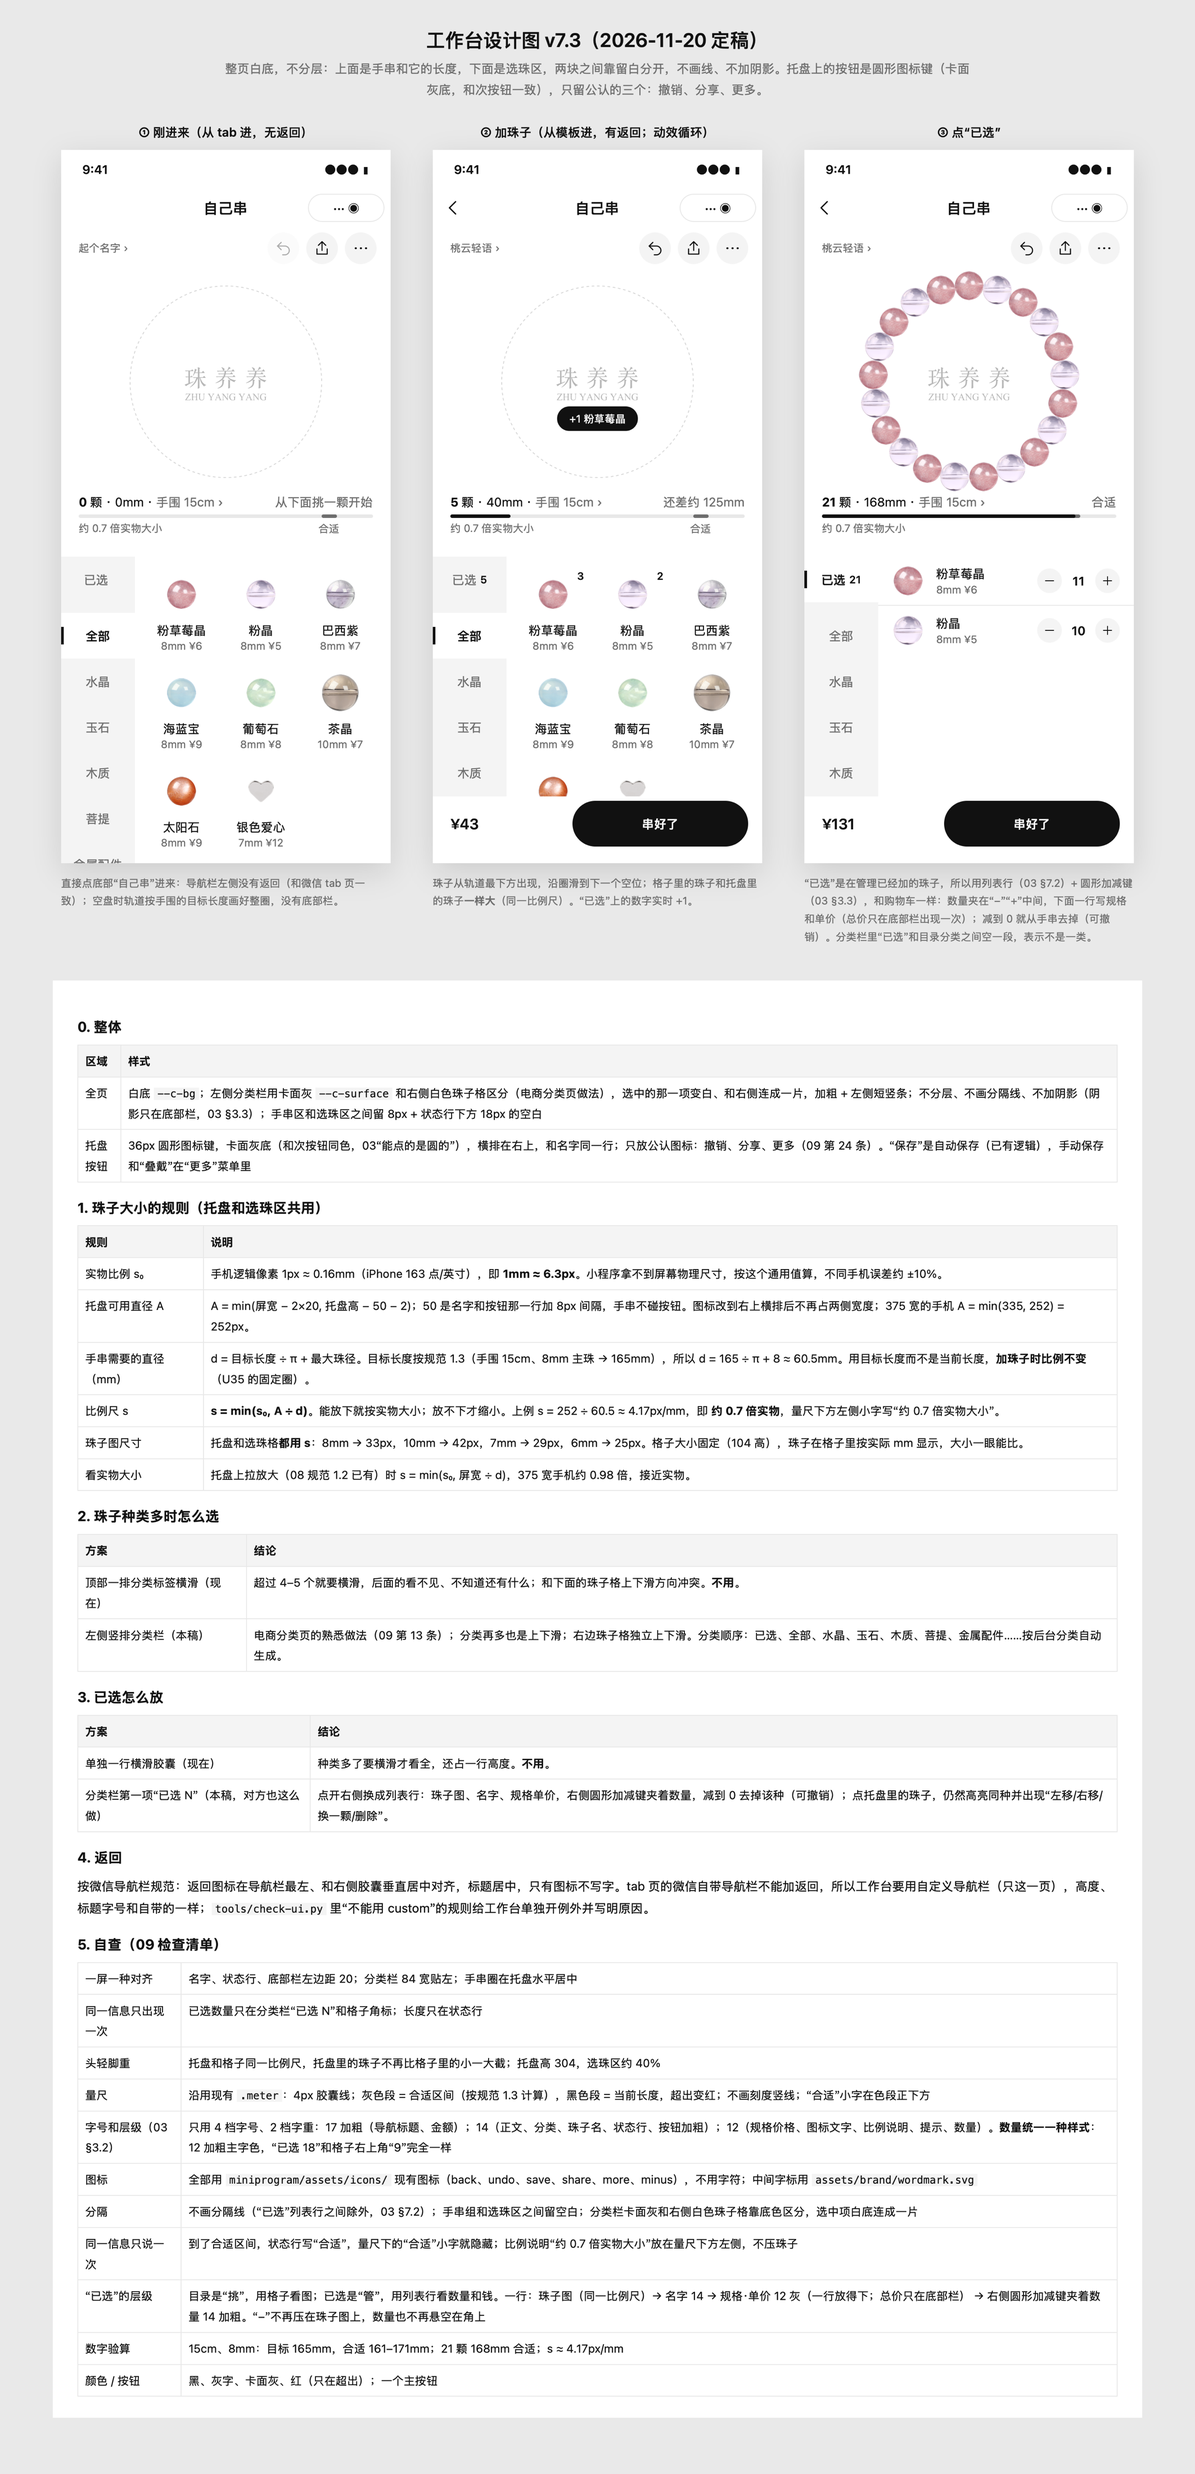
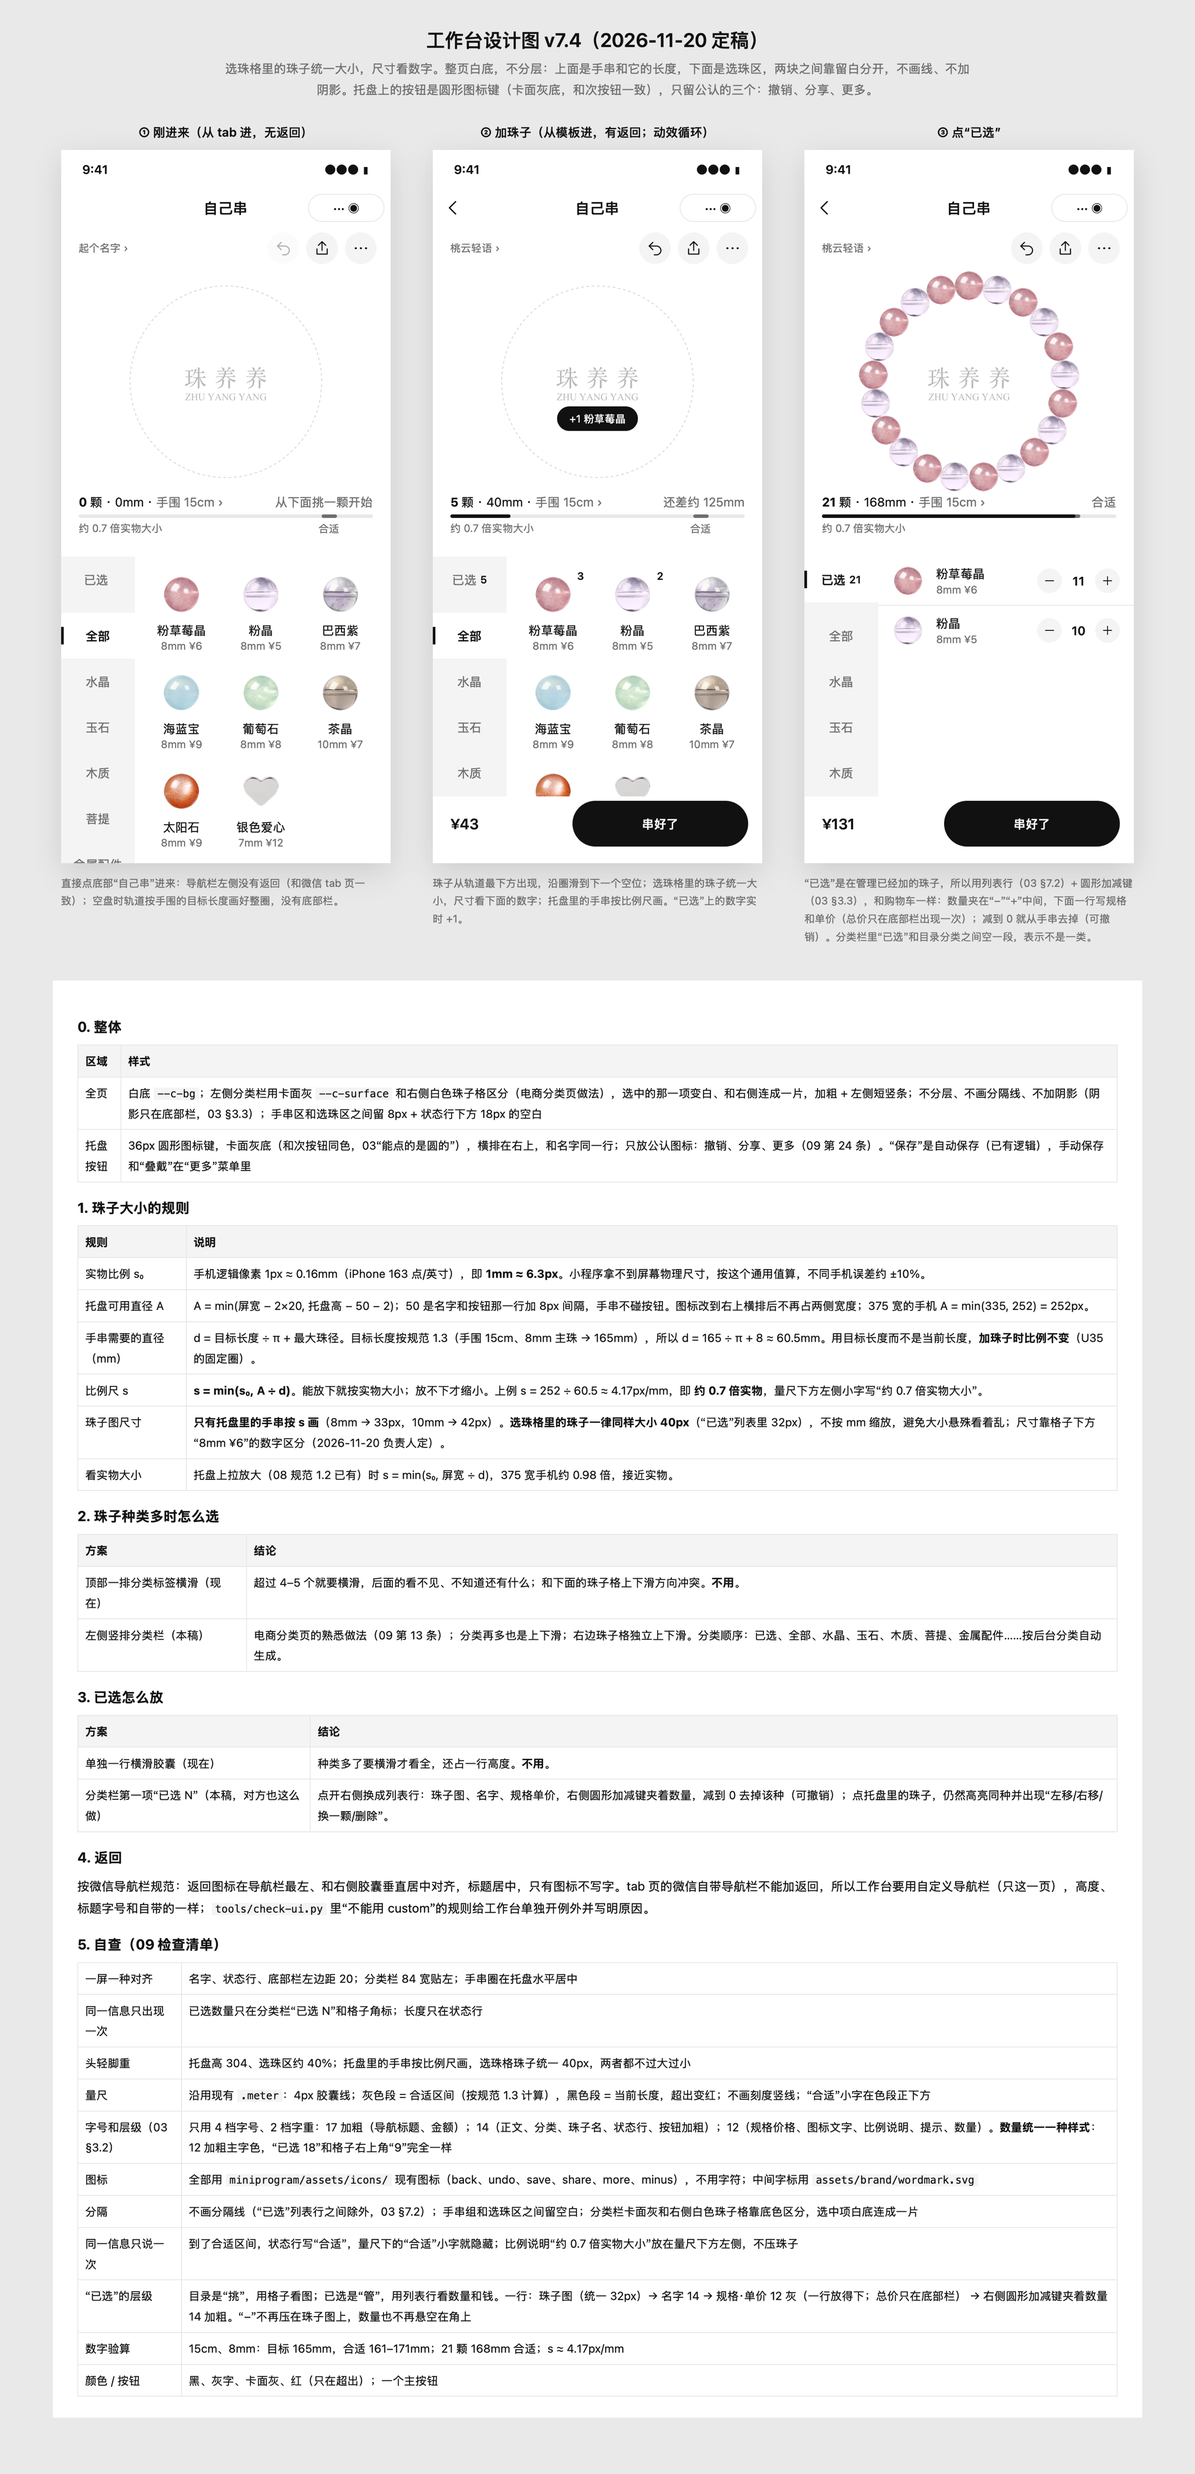
工作台设计图 v7.4：选珠格珠子统一大小、尺寸看数字（负责人定）；U40 卡同步

diff --git a/docs/design/mockups-workbench-v7.html b/docs/design/mockups-workbench-v7.html
@@ -3,7 +3,7 @@
 <head>
 <meta charset="utf-8">
 <meta name="viewport" content="width=device-width,initial-scale=1">
-<title>工作台设计图 v7.3</title>
+<title>工作台设计图 v7.4</title>
 <style>
 /* 1px = 2rpx。颜色、字号、间距取自 docs/design/tokens.wxss */
 :root{--bg:#fff;--surface:#f4f4f4;--line:#e8e8e8;--text:#111;--text2:#6e6e6e;--danger:#c2352b;--fs-title:17px;--fs-body:14px;--fs-caption:12px;--sp-base:20px;--h-btn:52px}
@@ -77,8 +77,8 @@ code{font-size:12px;background:var(--surface);padding:0 4px}
 </style>
 </head>
 <body>
-<h1>工作台设计图 v7.3（2026-11-20 定稿）</h1>
-<p class="sub">整页白底，不分层：上面是手串和它的长度，下面是选珠区，两块之间靠留白分开，不画线、不加阴影。托盘上的按钮是圆形图标键（卡面灰底，和次按钮一致），只留公认的三个：撤销、分享、更多。</p>
+<h1>工作台设计图 v7.4（2026-11-20 定稿）</h1>
+<p class="sub">选珠格里的珠子统一大小，尺寸看数字。整页白底，不分层：上面是手串和它的长度，下面是选珠区，两块之间靠留白分开，不画线、不加阴影。托盘上的按钮是圆形图标键（卡面灰底，和次按钮一致），只留公认的三个：撤销、分享、更多。</p>
 
 <div class="row">
   <div class="col"><div class="cap">① 刚进来（从 tab 进，无返回）</div>
@@ -87,7 +87,7 @@ code{font-size:12px;background:var(--surface);padding:0 4px}
   </div>
   <div class="col"><div class="cap">② 加珠子（从模板进，有返回；动效循环）</div>
     <div class="phone" id="p2"></div>
-    <div class="capd">珠子从轨道最下方出现，沿圈滑到下一个空位；格子里的珠子和托盘里的珠子<b>一样大</b>（同一比例尺）。“已选”上的数字实时 +1。</div>
+    <div class="capd">珠子从轨道最下方出现，沿圈滑到下一个空位；选珠格里的珠子统一大小，尺寸看下面的数字；托盘里的手串按比例尺画。“已选”上的数字实时 +1。</div>
   </div>
   <div class="col"><div class="cap">③ 点“已选”</div>
     <div class="phone" id="p3"></div>
@@ -102,14 +102,14 @@ code{font-size:12px;background:var(--surface);padding:0 4px}
     <tr><td>全页</td><td>白底 <code>--c-bg</code>；左侧分类栏用卡面灰 <code>--c-surface</code> 和右侧白色珠子格区分（电商分类页做法），选中的那一项变白、和右侧连成一片，加粗 + 左侧短竖条；不分层、不画分隔线、不加阴影（阴影只在底部栏，03 §3.3）；手串区和选珠区之间留 8px + 状态行下方 18px 的空白</td></tr>
     <tr><td>托盘按钮</td><td>36px 圆形图标键，卡面灰底（和次按钮同色，03“能点的是圆的”），横排在右上，和名字同一行；只放公认图标：撤销、分享、更多（09 第 24 条）。“保存”是自动保存（已有逻辑），手动保存和“叠戴”在“更多”菜单里</td></tr>
   </table>
-  <h2>1. 珠子大小的规则（托盘和选珠区共用）</h2>
+  <h2>1. 珠子大小的规则</h2>
   <table>
     <tr><th>规则</th><th>说明</th></tr>
     <tr><td>实物比例 s₀</td><td>手机逻辑像素 1px ≈ 0.16mm（iPhone 163 点/英寸），即 <b>1mm ≈ 6.3px</b>。小程序拿不到屏幕物理尺寸，按这个通用值算，不同手机误差约 ±10%。</td></tr>
     <tr><td>托盘可用直径 A</td><td>A = min(屏宽 − 2×20, 托盘高 − 50 − 2)；50 是名字和按钮那一行加 8px 间隔，手串不碰按钮。图标改到右上横排后不再占两侧宽度；375 宽的手机 A = min(335, 252) = 252px。</td></tr>
     <tr><td>手串需要的直径（mm）</td><td>d = 目标长度 ÷ π + 最大珠径。目标长度按规范 1.3（手围 15cm、8mm 主珠 → 165mm），所以 d = 165 ÷ π + 8 ≈ 60.5mm。用目标长度而不是当前长度，<b>加珠子时比例不变</b>（U35 的固定圈）。</td></tr>
     <tr><td>比例尺 s</td><td><b>s = min(s₀, A ÷ d)</b>。能放下就按实物大小；放不下才缩小。上例 s = 252 ÷ 60.5 ≈ 4.17px/mm，即 <b>约 0.7 倍实物</b>，量尺下方左侧小字写“约 0.7 倍实物大小”。</td></tr>
-    <tr><td>珠子图尺寸</td><td>托盘和选珠格<b>都用 s</b>：8mm → 33px，10mm → 42px，7mm → 29px，6mm → 25px。格子大小固定（104 高），珠子在格子里按实际 mm 显示，大小一眼能比。</td></tr>
+    <tr><td>珠子图尺寸</td><td><b>只有托盘里的手串按 s 画</b>（8mm → 33px，10mm → 42px）。<b>选珠格里的珠子一律同样大小 40px</b>（“已选”列表里 32px），不按 mm 缩放，避免大小悬殊看着乱；尺寸靠格子下方“8mm ¥6”的数字区分（2026-11-20 负责人定）。</td></tr>
     <tr><td>看实物大小</td><td>托盘上拉放大（08 规范 1.2 已有）时 s = min(s₀, 屏宽 ÷ d)，375 宽手机约 0.98 倍，接近实物。</td></tr>
   </table>
   <h2>2. 珠子种类多时怎么选</h2>
@@ -130,13 +130,13 @@ code{font-size:12px;background:var(--surface);padding:0 4px}
   <table>
     <tr><td>一屏一种对齐</td><td>名字、状态行、底部栏左边距 20；分类栏 84 宽贴左；手串圈在托盘水平居中</td></tr>
     <tr><td>同一信息只出现一次</td><td>已选数量只在分类栏“已选 N”和格子角标；长度只在状态行</td></tr>
-    <tr><td>头轻脚重</td><td>托盘和格子同一比例尺，托盘里的珠子不再比格子里的小一大截；托盘高 304，选珠区约 40%</td></tr>
+    <tr><td>头轻脚重</td><td>托盘高 304、选珠区约 40%；托盘里的手串按比例尺画，选珠格珠子统一 40px，两者都不过大过小</td</tr>
     <tr><td>量尺</td><td>沿用现有 <code>.meter</code>：4px 胶囊线；灰色段 = 合适区间（按规范 1.3 计算），黑色段 = 当前长度，超出变红；不画刻度竖线；“合适”小字在色段正下方</td></tr>
     <tr><td>字号和层级（03 §3.2）</td><td>只用 4 档字号、2 档字重：17 加粗（导航标题、金额）；14（正文、分类、珠子名、状态行、按钮加粗）；12（规格价格、图标文字、比例说明、提示、数量）。<b>数量统一一种样式</b>：12 加粗主字色，“已选 18”和格子右上角“9”完全一样</td></tr>
     <tr><td>图标</td><td>全部用 <code>miniprogram/assets/icons/</code> 现有图标（back、undo、save、share、more、minus），不用字符；中间字标用 <code>assets/brand/wordmark.svg</code></td></tr>
     <tr><td>分隔</td><td>不画分隔线（“已选”列表行之间除外，03 §7.2）；手串组和选珠区之间留空白；分类栏卡面灰和右侧白色珠子格靠底色区分，选中项白底连成一片</td></tr>
     <tr><td>同一信息只说一次</td><td>到了合适区间，状态行写“合适”，量尺下的“合适”小字就隐藏；比例说明“约 0.7 倍实物大小”放在量尺下方左侧，不压珠子</td></tr>
-    <tr><td>“已选”的层级</td><td>目录是“挑”，用格子看图；已选是“管”，用列表行看数量和钱。一行：珠子图（同一比例尺）→ 名字 14 → 规格·单价 12 灰（一行放得下；总价只在底部栏） → 右侧圆形加减键夹着数量 14 加粗。“−”不再压在珠子图上，数量也不再悬空在角上</td></tr>
+    <tr><td>“已选”的层级</td><td>目录是“挑”，用格子看图；已选是“管”，用列表行看数量和钱。一行：珠子图（统一 32px）→ 名字 14 → 规格·单价 12 灰（一行放得下；总价只在底部栏） → 右侧圆形加减键夹着数量 14 加粗。“−”不再压在珠子图上，数量也不再悬空在角上</td></tr>
     <tr><td>数字验算</td><td>15cm、8mm：目标 165mm，合适 161–171mm；21 颗 168mm 合适；s ≈ 4.17px/mm</td></tr>
     <tr><td>颜色 / 按钮</td><td>黑、灰字、卡面灰、红（只在超出）；一个主按钮</td></tr>
   </table>
@@ -151,9 +151,9 @@ function phone(o){
   const cats=['全部','水晶','玉石','木质','菩提','金属配件','隔珠'];
   const rail=`<div class="rail"><div class="${o.rail==='sel'?'on':''}">已选<span class="cnt" id="${o.id}sel">${o.sel||''}</span></div><div class="gap"></div>${cats.map((c,i)=>`<div class="${o.rail===i?'on':''}">${c}</div>`).join('')}</div>`;
   const list=o.rail==='sel'?o.selItems:NAMES.map((b,i)=>i);
-  if(o.rail==='sel'){const rows=o.selItems.map(i=>{const b=NAMES[i],px=Math.round(b[1]*S);return `<div class="lrow"><div class="im"><img src="${IMG[i+1]}" style="width:${px}px;height:${px}px;object-fit:contain"></div><div class="tx">${b[0]}<span class="p">${b[1]}mm ¥${b[2]}</span></div><div class="step"><span><svg xmlns=\"http://www.w3.org/2000/svg\" width=\"24\" height=\"24\" viewBox=\"0 0 24 24\" fill=\"none\" stroke=\"#111111\" stroke-width=\"1.5\" stroke-linecap=\"round\" stroke-linejoin=\"round\"><path d=\"M5 12h14\"/></svg></span><b>${o.counts[i]}</b><span><svg xmlns=\"http://www.w3.org/2000/svg\" width=\"24\" height=\"24\" viewBox=\"0 0 24 24\" fill=\"none\" stroke=\"#111111\" stroke-width=\"1.5\" stroke-linecap=\"round\" stroke-linejoin=\"round\"><path d=\"M12 5v14M5 12h14\"/></svg></span></div></div>`}).join('');
+  if(o.rail==='sel'){const rows=o.selItems.map(i=>{const b=NAMES[i],px=32;return `<div class="lrow"><div class="im"><img src="${IMG[i+1]}" style="width:${px}px;height:${px}px;object-fit:contain"></div><div class="tx">${b[0]}<span class="p">${b[1]}mm ¥${b[2]}</span></div><div class="step"><span><svg xmlns=\"http://www.w3.org/2000/svg\" width=\"24\" height=\"24\" viewBox=\"0 0 24 24\" fill=\"none\" stroke=\"#111111\" stroke-width=\"1.5\" stroke-linecap=\"round\" stroke-linejoin=\"round\"><path d=\"M5 12h14\"/></svg></span><b>${o.counts[i]}</b><span><svg xmlns=\"http://www.w3.org/2000/svg\" width=\"24\" height=\"24\" viewBox=\"0 0 24 24\" fill=\"none\" stroke=\"#111111\" stroke-width=\"1.5\" stroke-linecap=\"round\" stroke-linejoin=\"round\"><path d=\"M12 5v14M5 12h14\"/></svg></span></div></div>`}).join('');
     o._list=`<div class="list">${rows}</div>`}
-  const cards=list.map(i=>{const b=NAMES[i],px=Math.round(b[1]*S),cnt=(o.counts||{})[i]||'';return `<div class="card">${o.rail==='sel'?'<span class="minus"><svg xmlns=\"http://www.w3.org/2000/svg\" width=\"24\" height=\"24\" viewBox=\"0 0 24 24\" fill=\"none\" stroke=\"#111111\" stroke-width=\"1.5\" stroke-linecap=\"round\" stroke-linejoin=\"round\"><path d=\"M5 12h14\"/></svg></span>':''}<span class="n cnt" id="${o.id}n${i}">${cnt}</span><div class="bx"><img src="${IMG[i+1]}" style="width:${px}px;height:${px}px;object-fit:contain"></div>${b[0]}<span class="p">${b[1]}mm ¥${b[2]}</span></div>`}).join('');
+  const cards=list.map(i=>{const b=NAMES[i],px=40,cnt=(o.counts||{})[i]||'';return `<div class="card">${o.rail==='sel'?'<span class="minus"><svg xmlns=\"http://www.w3.org/2000/svg\" width=\"24\" height=\"24\" viewBox=\"0 0 24 24\" fill=\"none\" stroke=\"#111111\" stroke-width=\"1.5\" stroke-linecap=\"round\" stroke-linejoin=\"round\"><path d=\"M5 12h14\"/></svg></span>':''}<span class="n cnt" id="${o.id}n${i}">${cnt}</span><div class="bx"><img src="${IMG[i+1]}" style="width:${px}px;height:${px}px;object-fit:contain"></div>${b[0]}<span class="p">${b[1]}mm ¥${b[2]}</span></div>`}).join('');
   return `<div class="sb"><span>9:41</span><span>●●● ▮</span></div>
   <div class="nav">${o.back?'<span class="back"><svg xmlns=\"http://www.w3.org/2000/svg\" width=\"24\" height=\"24\" viewBox=\"0 0 24 24\" fill=\"none\" stroke=\"#111111\" stroke-width=\"1.5\" stroke-linecap=\"round\" stroke-linejoin=\"round\"><path d=\"M15 5l-7 7 7 7\"/></svg></span>':''}自己串<span class="caps">··· ◉</span></div>
   <div class="tray"><div class="ring" id="${o.id}ring"><div class="track" style="left:${A/2-RC}px;top:${A/2-RC}px;width:${RC*2}px;height:${RC*2}px"></div><div class="wm"></div></div>

diff --git a/docs/design/tasks/followups-1119.md b/docs/design/tasks/followups-1119.md
@@ -184,7 +184,7 @@
   1. **全页白底**，不分层、不画分隔线、不加阴影（只有底部栏 `c-bar` 有阴影）；托盘去掉 `--c-tray` 渐变；手串区和选珠区靠留白分开。
   2. **导航栏和返回**：工作台改用自定义导航栏（只这一页），高度、标题字号与微信自带一致，标题“自己串”居中；返回只用 `assets/icons/back.svg` 图标，放在最左、与右侧胶囊垂直居中对齐（用 `wx.getMenuButtonBoundingClientRect` 算位置）；只有从别的页进来才显示（沿用 U34 的来源记录，`.tray-back` 删掉）。`tools/check-ui.py` 的“不能用 custom”规则给 `pages/diy/diy` 单独开例外，写明原因“tab 页微信导航没有返回键”。
   3. **托盘**：左上一行“名字 ›”（删 `.tray-tags`）；右上横排 3 个 36px 圆形图标键（卡面灰底，`assets/icons/undo.svg`、`share.svg`、`more.svg`，不配文字）；撤销无可撤时透明度 .35。“保存”按钮去掉（已有自动保存 `saveDraftSoon`），“保存”和“叠戴”挪进“更多”菜单前两项。中间字标用 `assets/brand/wordmark.svg`。
-  4. **比例尺**（设计图第 1 节）：新增纯函数 `beadScale({screenW, trayH, wristCm, maxMm})` 返回 px/mm：`s = min(6.3, A ÷ d)`，`A = min(屏宽 − 40, 托盘可用高)`，`d = 目标长度 ÷ π + 最大珠径`，目标长度按 `logic.stats` 的 target（不要另写公式）。手串圈和选珠格里的珠子图**都按 s 显示**（8mm ≈ 35px@375 宽）；量尺下方左侧写“约 X 倍实物大小”（X = s ÷ 6.3，保留 1 位）。U35 的固定圈、旋转保留。
+  4. **比例尺**（设计图第 1 节）：新增纯函数 `beadScale({screenW, trayH, wristCm, maxMm})` 返回 px/mm：`s = min(6.3, A ÷ d)`，`A = min(屏宽 − 40, 托盘可用高)`，`d = 目标长度 ÷ π + 最大珠径`，目标长度按 `logic.stats` 的 target（不要另写公式）。**只有托盘里的手串按 s 显示**（8mm ≈ 33px@375 宽）；**选珠格里的珠子一律 80rpx（40px）同样大小，“已选”列表里 64rpx（32px）**，不按 mm 缩放，尺寸靠下方“8mm ¥6”的数字区分（2026-11-20 负责人定，设计图 v7.4）；量尺下方左侧写“约 X 倍实物大小”（X = s ÷ 6.3，保留 1 位）。U35 的固定圈、旋转保留。
   5. **状态行和量尺**：“N 颗 · Lmm · 手围 15cm ›”+ 右侧“还差约 X / 合适 / 超出约 X”（超出用 `--c-danger`）；量尺沿用 `.meter`：4px 胶囊线，灰色段 = 合适区间（按规范 1.3 算），黑色段 = 当前长度，超出变红，**去掉 `.meter-dot`**；“合适”小字在灰色段正下方，到了合适就隐藏。
   6. **选珠区**：删搜索框 `.picker-search` 及搜索逻辑；删横排 `.categories`，改为左侧竖排分类栏（宽 84，卡面灰底 `--c-surface`；选中项白底、加粗、左侧 3px 短竖条，和右侧白色珠子格连成一片），第一项“已选 N”，和下面的目录分类之间留 12px；右边三列珠子格，**不加底色方块**，珠子直接在白底上，下面名字 14、规格价格 12 灰，已用数量在右上角（12 加粗主字色，和“已选 N”的数字同一样式）。`.sizes` 尺寸筛选保留，放在右侧珠子格上方一行（现有样式）。
   7. **“已选”**：点分类栏“已选”时右侧换成列表行（`c-row` 规格）：珠子图 → 名字 14 / 规格单价 12 灰 → 右侧圆形加减键夹数量；减到 0 去掉该种（可撤销）。删 `.picked-row`；原来点已选胶囊高亮同种珠子的功能保留在托盘里点珠子。
